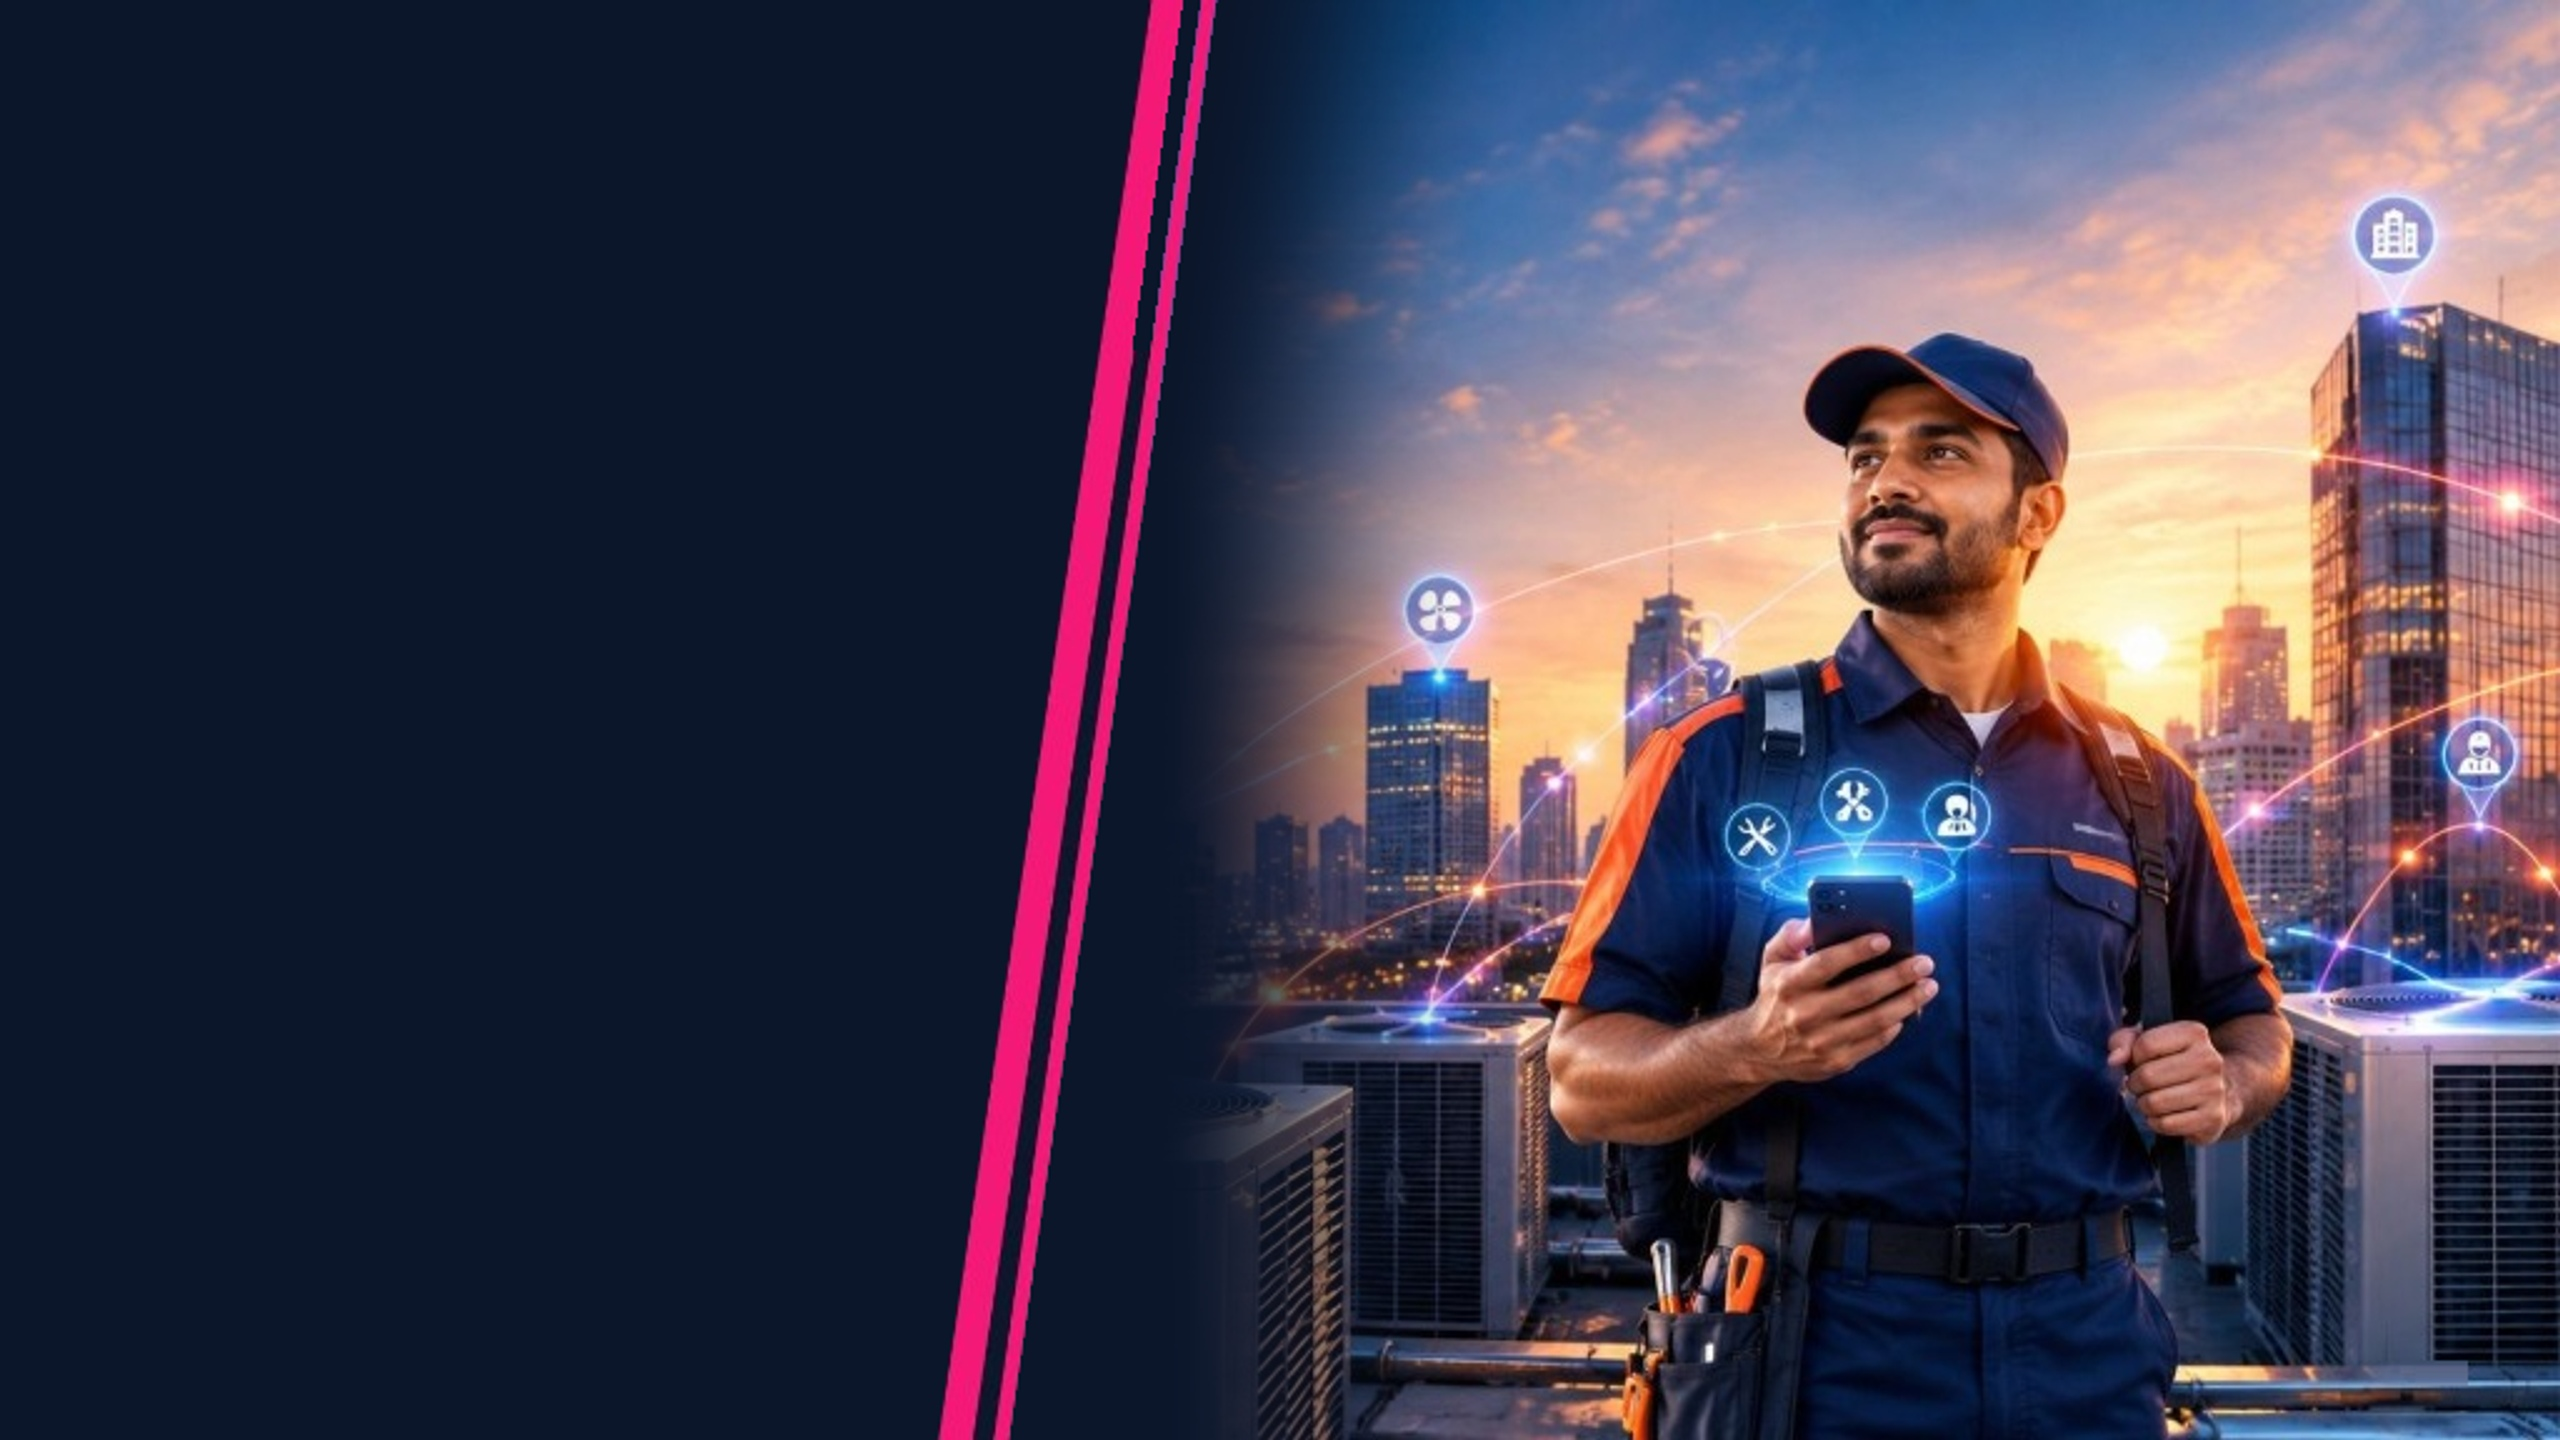
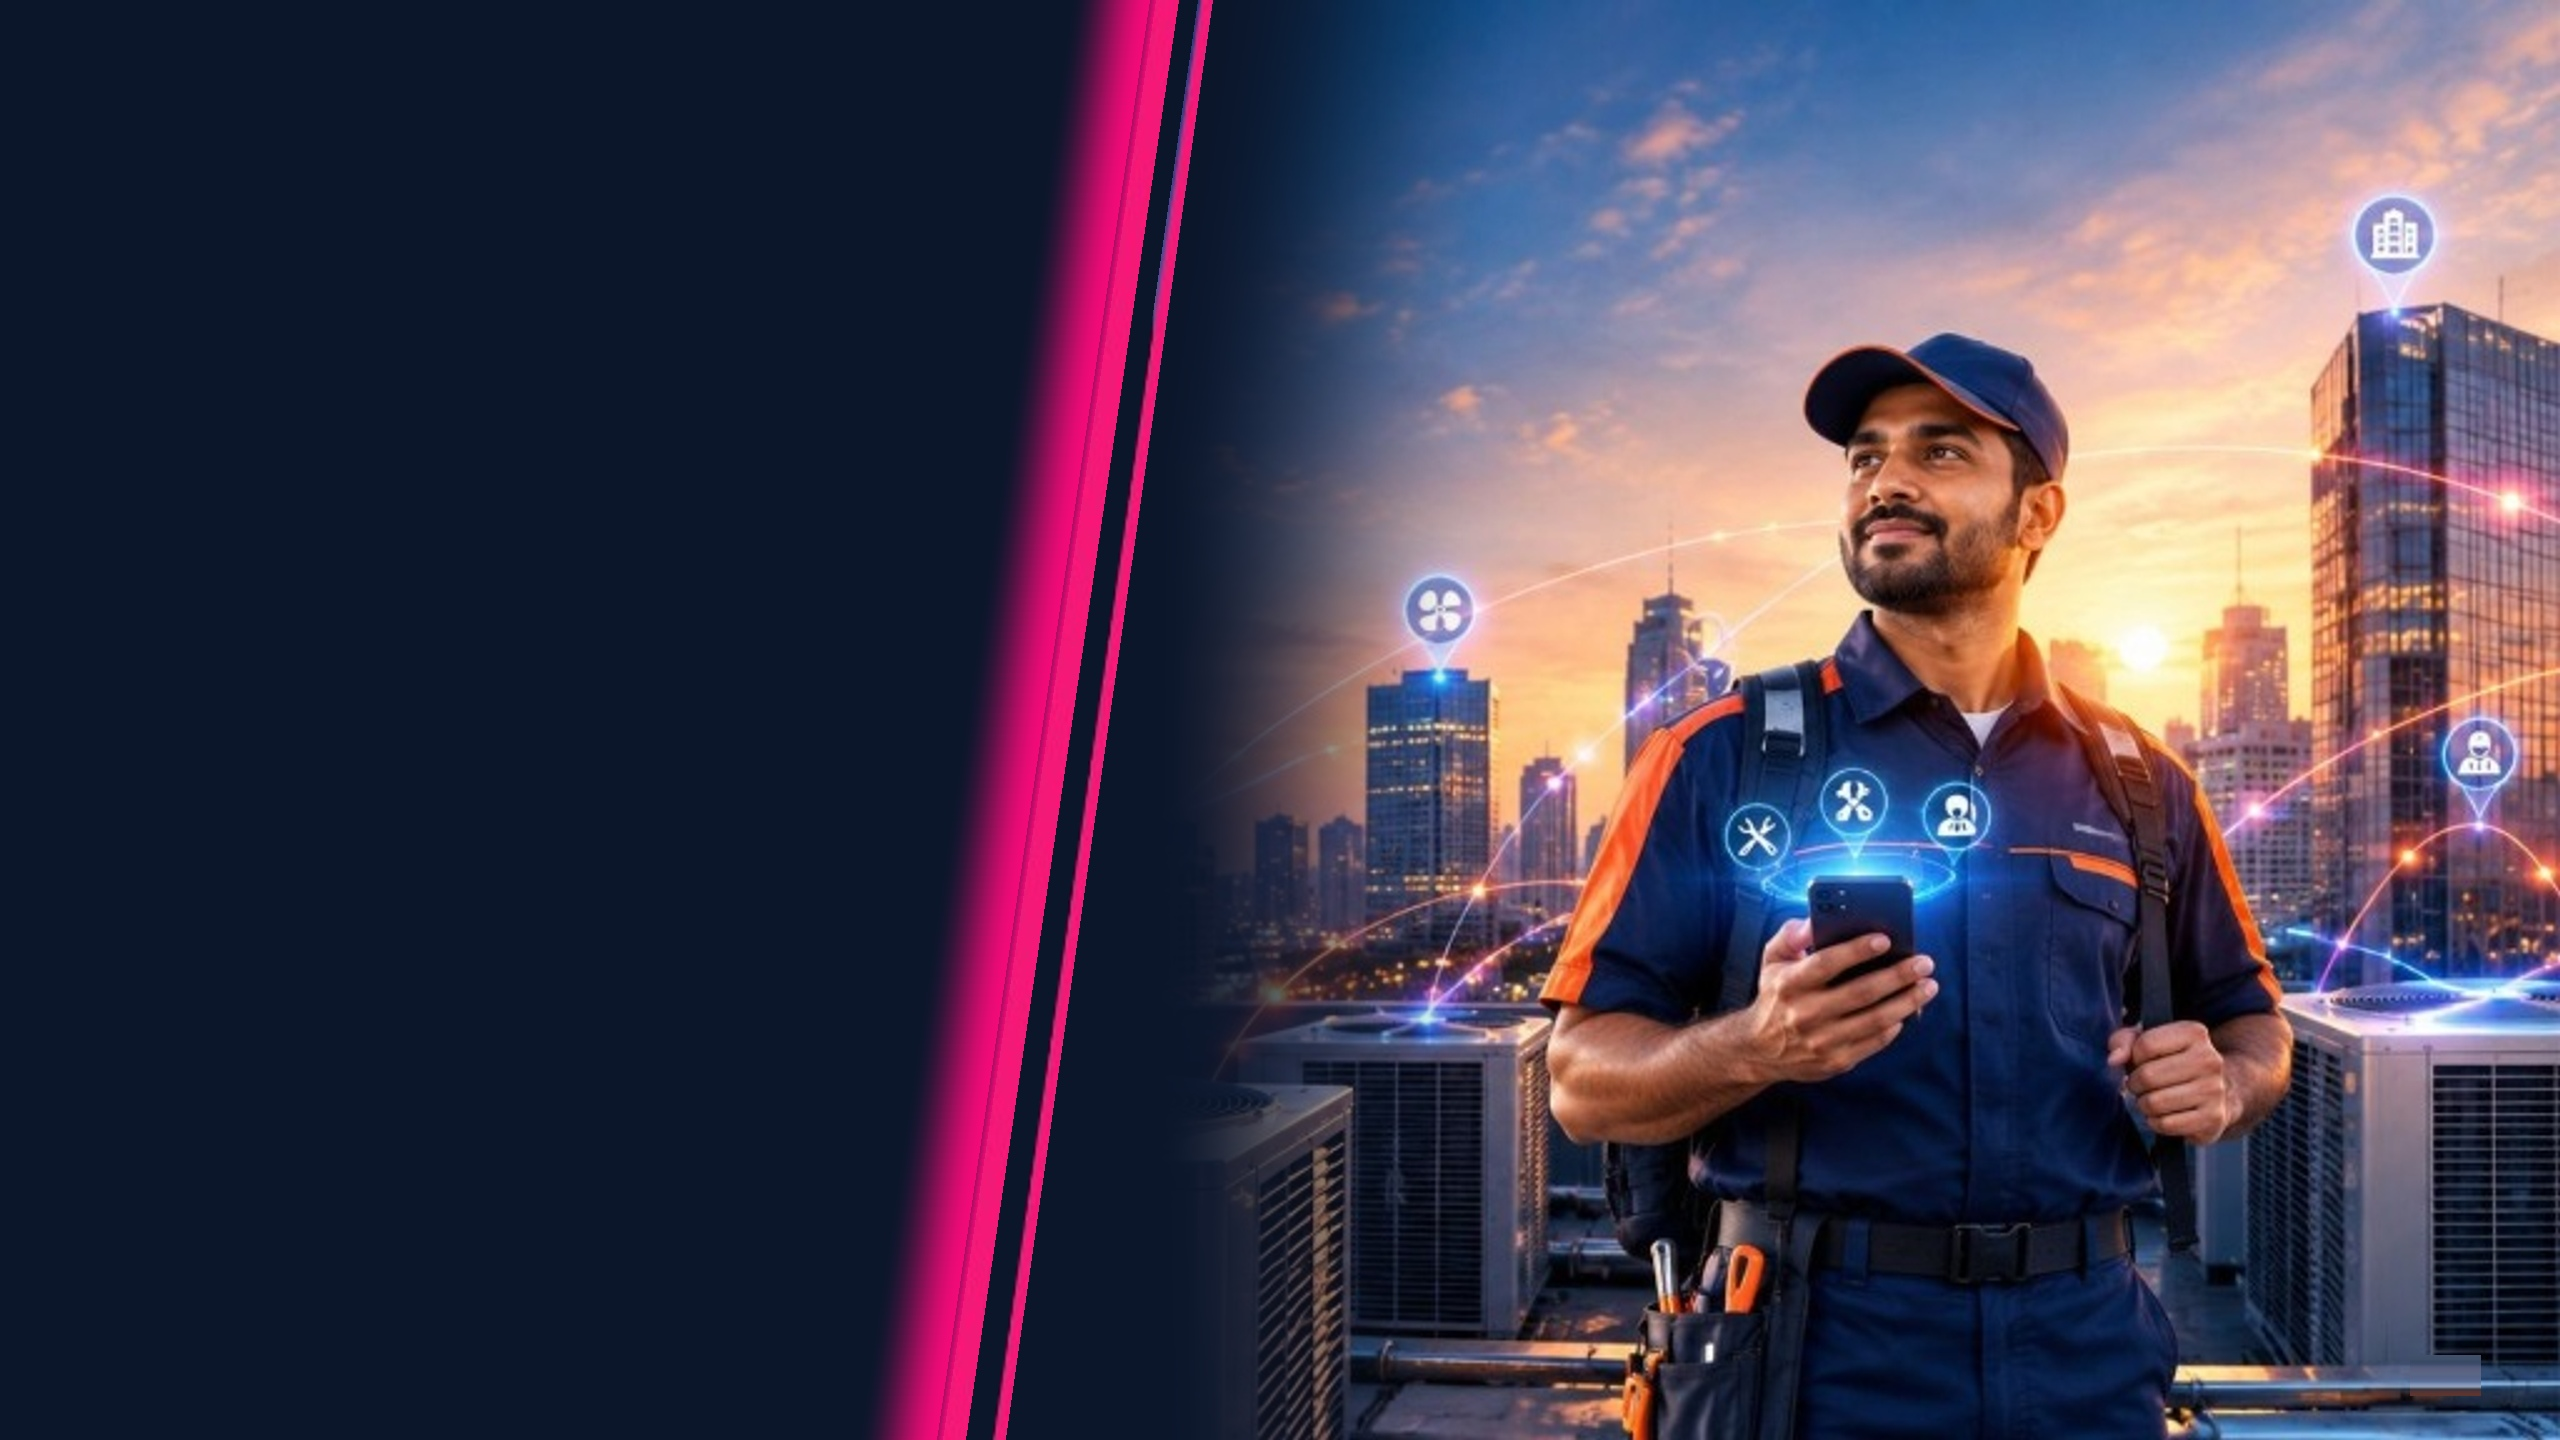
feat: add soft edge merge on pink link line, update commercial facility maintenance visual, and optimize Vercel cache headers

Changed region(s): [[0.3438, 0.0, 0.4688, 1.0], [0.9375, 0.9375, 0.9688, 0.9688]]

diff --git a/src/components/Hero.tsx b/src/components/Hero.tsx
@@ -21,9 +21,9 @@ export const Hero: React.FC<HeroProps> = ({ onExploreClick }) => {
               'linear-gradient(90deg, transparent 0%, rgba(0,0,0,0.5) 8%, black 22%, black 100%)',
           }}
         >
-          <source srcSet="/images/skornet-hero-bg.webp" type="image/webp" />
+          <source srcSet="/images/skornet-hero-bg.webp?v=3" type="image/webp" />
           <img
-            src="/images/skornet-hero-bg.jpg"
+            src="/images/skornet-hero-bg.jpg?v=3"
             alt="SKORNET Connected HVAC Service Ecosystem"
             className="w-full h-full object-cover object-right"
             loading="eager"
@@ -55,12 +55,12 @@ export const Hero: React.FC<HeroProps> = ({ onExploreClick }) => {
           aria-hidden="true"
         />
 
-        {/* Smooth, soft-gradient effect blending seamlessly from deep #0B162B into the crystal-clear hero artwork */}
+        {/* Smooth, soft-gradient effect blending seamlessly from deep #0B162B across the link line into the hero artwork */}
         <div
           className="absolute inset-0 w-full pointer-events-none z-1"
           style={{
             background:
-              'linear-gradient(90deg, #0B162B 0%, #0B162B 24%, rgba(11, 22, 43, 0.75) 30%, rgba(11, 22, 43, 0.15) 36%, transparent 42%)',
+              'linear-gradient(90deg, #0B162B 0%, #0B162B 36%, rgba(11, 22, 43, 0.90) 46%, rgba(11, 22, 43, 0.55) 56%, rgba(11, 22, 43, 0.15) 66%, transparent 76%)',
           }}
           aria-hidden="true"
         />

diff --git a/src/components/FutureVision.tsx b/src/components/FutureVision.tsx
@@ -247,9 +247,9 @@ export const FutureVision: React.FC = () => {
               {/* Photo Asset */}
               <div className="rounded-2xl overflow-hidden border border-slate-200/90 shadow-sm bg-white group relative">
                 <picture className="block relative overflow-hidden">
-                  <source srcSet="/images/facility-maintenance-commercial.webp" type="image/webp" />
+                  <source srcSet="/images/facility-maintenance-commercial.webp?v=3" type="image/webp" />
                   <img
-                    src="/images/facility-maintenance-commercial.jpg"
+                    src="/images/facility-maintenance-commercial.jpg?v=3"
                     alt="Young Indian facility engineers inspecting commercial building mechanical and electrical systems with digital diagnostic tablet"
                     className="w-full h-56 sm:h-64 object-cover object-center transition-transform duration-500 group-hover:scale-[1.02]"
                     loading="lazy"
